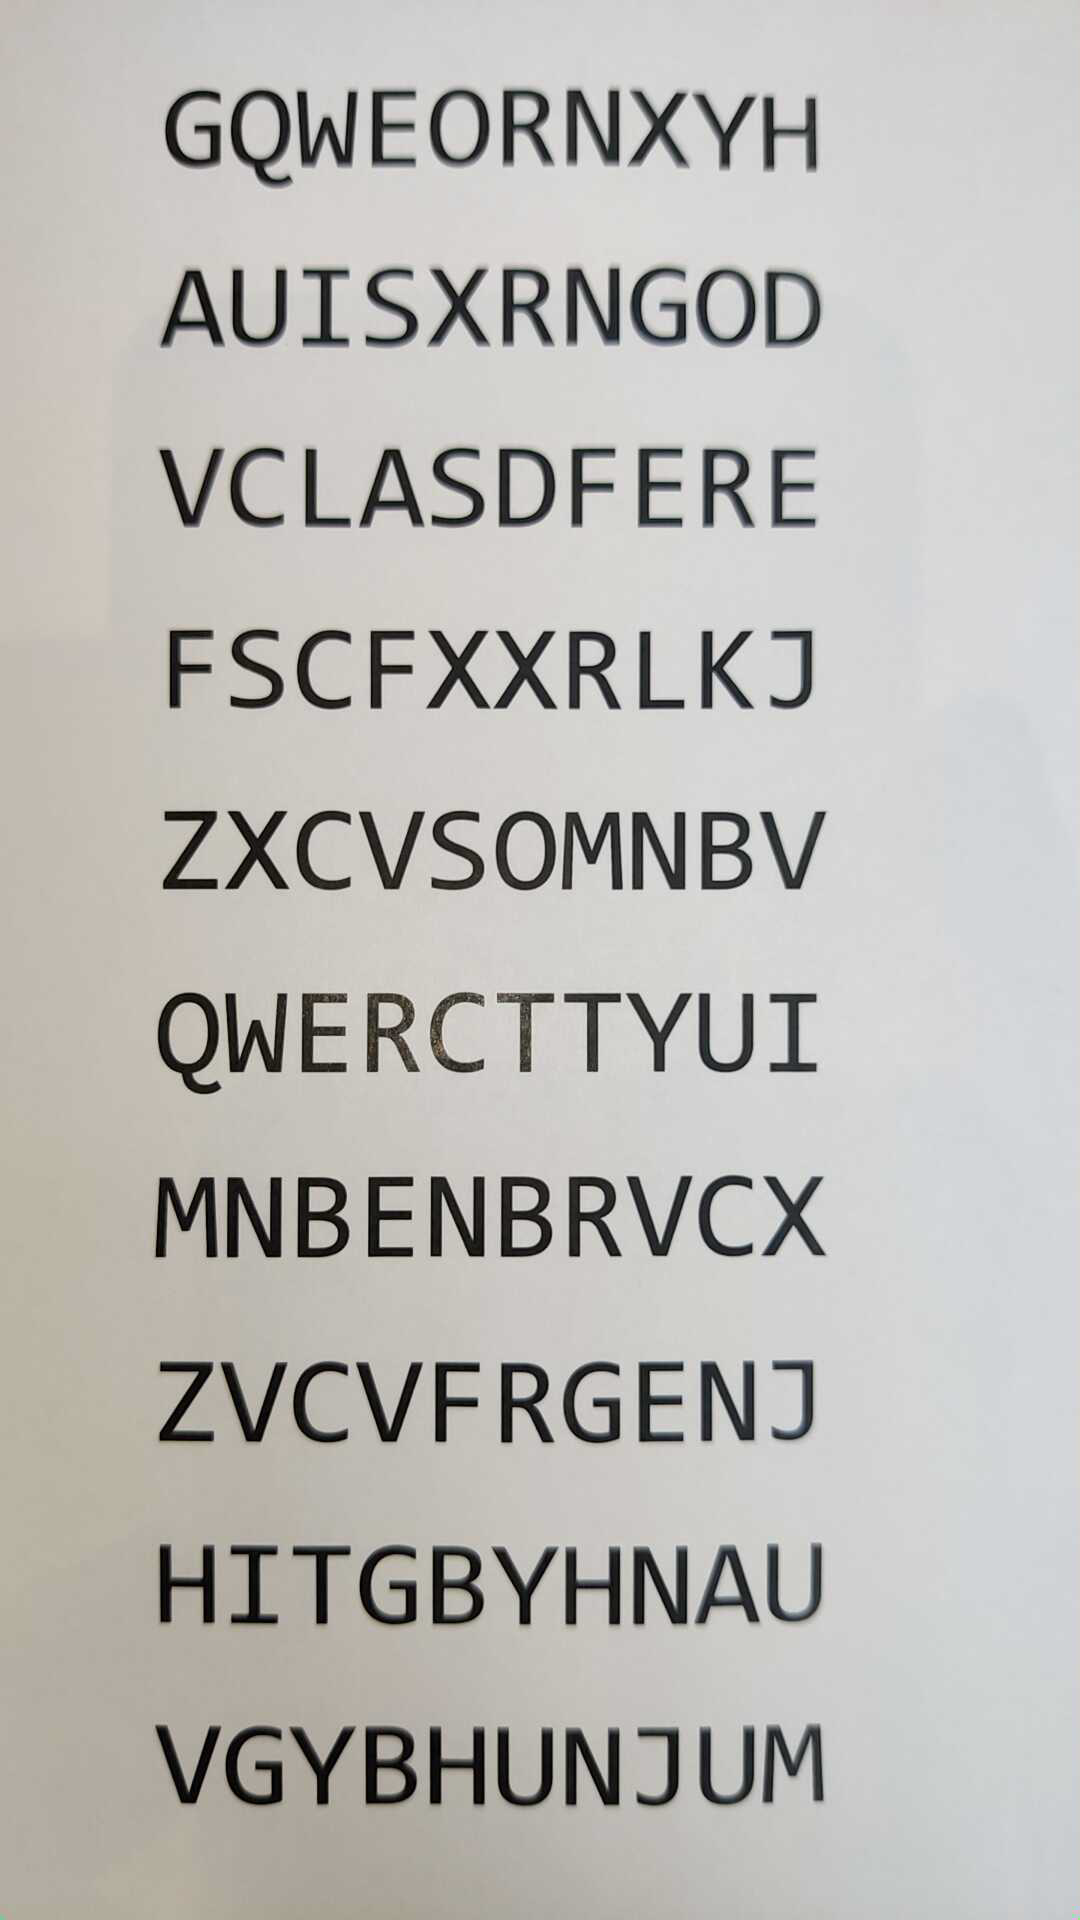
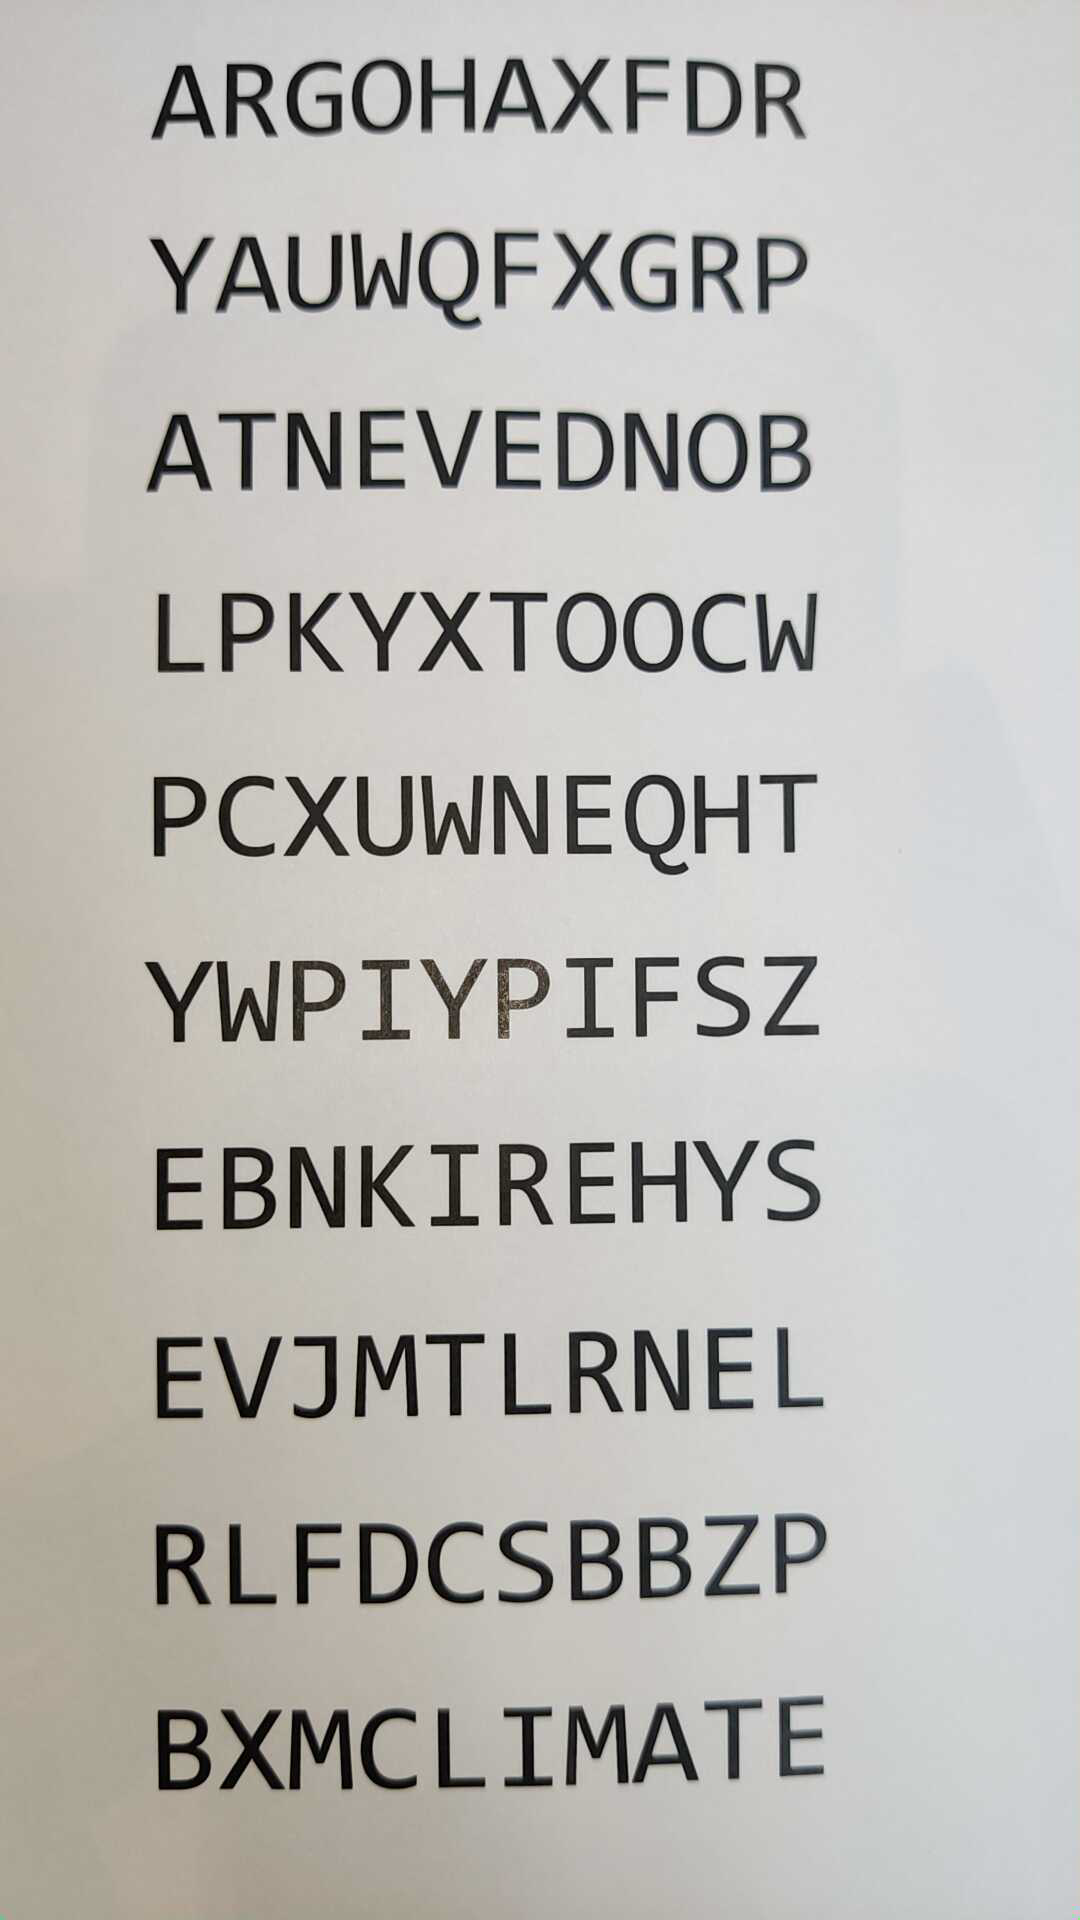
web page updated!

diff --git a/response/html/climateindex.html b/response/html/climateindex.html
@@ -5,7 +5,7 @@
     <meta http-equiv="X-UA-Compatible" content="IE=edge">
     <meta name="viewport" content="width=device-width, initial-scale=1">
     <!-- The above 3 meta tags *must* come first in the head; any other head content must come *after* these tags -->
-    <title>bondevent</title>
+    <title>climate</title>
 
     <!-- Bootstrap -->
     <link href="css/bootstrap.min.css" rel="stylesheet">
@@ -18,11 +18,11 @@
     <![endif]-->
   </head>
   <body>
-    <h1>Bondevent</h1>
-    <div style="float:left; padding-right: 10px;"><img style="width:500px;" src=bondevent.jpg alt="test"></div>
+    <h1>Climate</h1>
+    <div style="float:left; padding-right: 10px;"><img style="width:500px;" src=climate.jpg alt="test"></div>
     </br>
-    <p style="width:50%;">Bond events are North Atlantic ice rafting events that are tentatively linked to climate fluctuations in the Holocene. Eight such events have been identified. Bond events were previously believed to exhibit a roughly c. 1,500-year cycle, but the primary period of variability is now put at c. 1,000 years</p>
-    <div style="clear:both; padding-top: 50px;"><iframe width="560" height="315" src="https://www.youtube.com/embed/oAkL34Yu12A" title="YouTube video player" frameborder="0" allow="accelerometer; autoplay; clipboard-write; encrypted-media; gyroscope; picture-in-picture" allowfullscreen></iframe></div>
+    <p style="width:50%;">Climate is the long-term weather pattern in an area, typically averaged over 30 years. More rigorously, it is the mean and variability of meteorological variables over a time spanning from months to millions of years. Some of the meteorological variables that are commonly measured are temperature, humidity, atmospheric pressure, wind, and precipitation. In a broader sense, climate is the state of the components of the climate system, including the ocean, land, and ice on Earth. The climate of a location is affected by its latitude/longitude, terrain, altitude, and nearby water bodies and their currents</p>
+    <div style="clear:both; padding-top: 50px;"><iframe width="560" height="315" src="https://www.youtube.com/embed/LxgMdjyw8uw" title="YouTube video player" frameborder="0" allow="accelerometer; autoplay; clipboard-write; encrypted-media; gyroscope; picture-in-picture" allowfullscreen></iframe></div>
     <!-- jQuery (necessary for Bootstrap's JavaScript plugins) -->
     <script src="https://ajax.googleapis.com/ajax/libs/jquery/1.12.4/jquery.min.js"></script>
     <!-- Include all compiled plugins (below), or include individual files as needed -->

diff --git a/response/html/argoindex.html b/response/html/argoindex.html
@@ -5,7 +5,7 @@
     <meta http-equiv="X-UA-Compatible" content="IE=edge">
     <meta name="viewport" content="width=device-width, initial-scale=1">
     <!-- The above 3 meta tags *must* come first in the head; any other head content must come *after* these tags -->
-    <title>bondevent</title>
+    <title>argo</title>
 
     <!-- Bootstrap -->
     <link href="css/bootstrap.min.css" rel="stylesheet">
@@ -18,11 +18,11 @@
     <![endif]-->
   </head>
   <body>
-    <h1>Bondevent</h1>
-    <div style="float:left; padding-right: 10px;"><img style="width:500px;" src=bondevent.jpg alt="test"></div>
+    <h1>Argo</h1>
+    <div style="float:left; padding-right: 10px;"><img style="width:500px;" src=argo.jpg alt="test"></div>
     </br>
-    <p style="width:50%;">Bond events are North Atlantic ice rafting events that are tentatively linked to climate fluctuations in the Holocene. Eight such events have been identified. Bond events were previously believed to exhibit a roughly c. 1,500-year cycle, but the primary period of variability is now put at c. 1,000 years</p>
-    <div style="clear:both; padding-top: 50px;"><iframe width="560" height="315" src="https://www.youtube.com/embed/oAkL34Yu12A" title="YouTube video player" frameborder="0" allow="accelerometer; autoplay; clipboard-write; encrypted-media; gyroscope; picture-in-picture" allowfullscreen></iframe></div>
+    <p style="width:50%;">Argo is an international program that uses profiling floats to observe temperature, salinity, currents, and, recently, bio-optical properties in the Earth's oceans; it has been operational since the early 2000s. The real-time data it provides is used in climate and oceanographic research. A special research interest is to quantify the ocean heat content (OHC). </p>
+    <div style="clear:both; padding-top: 50px;"><iframe width="560" height="315" src="https://www.youtube.com/embed/wVwO_VxY7NI" title="YouTube video player" frameborder="0" allow="accelerometer; autoplay; clipboard-write; encrypted-media; gyroscope; picture-in-picture" allowfullscreen></iframe></div>
     <!-- jQuery (necessary for Bootstrap's JavaScript plugins) -->
     <script src="https://ajax.googleapis.com/ajax/libs/jquery/1.12.4/jquery.min.js"></script>
     <!-- Include all compiled plugins (below), or include individual files as needed -->
